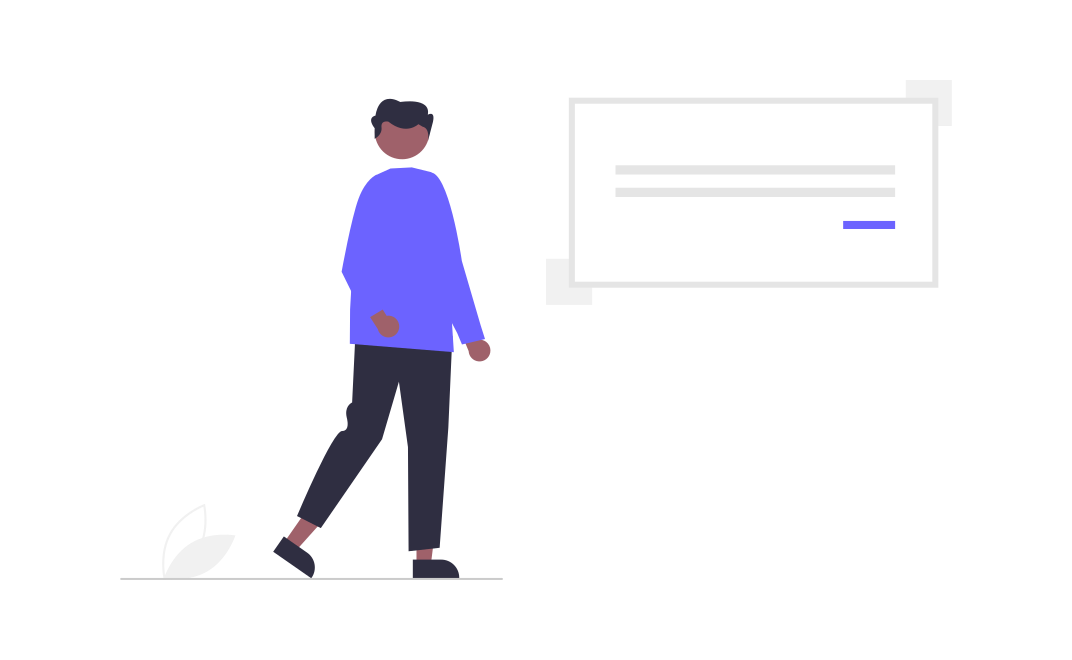
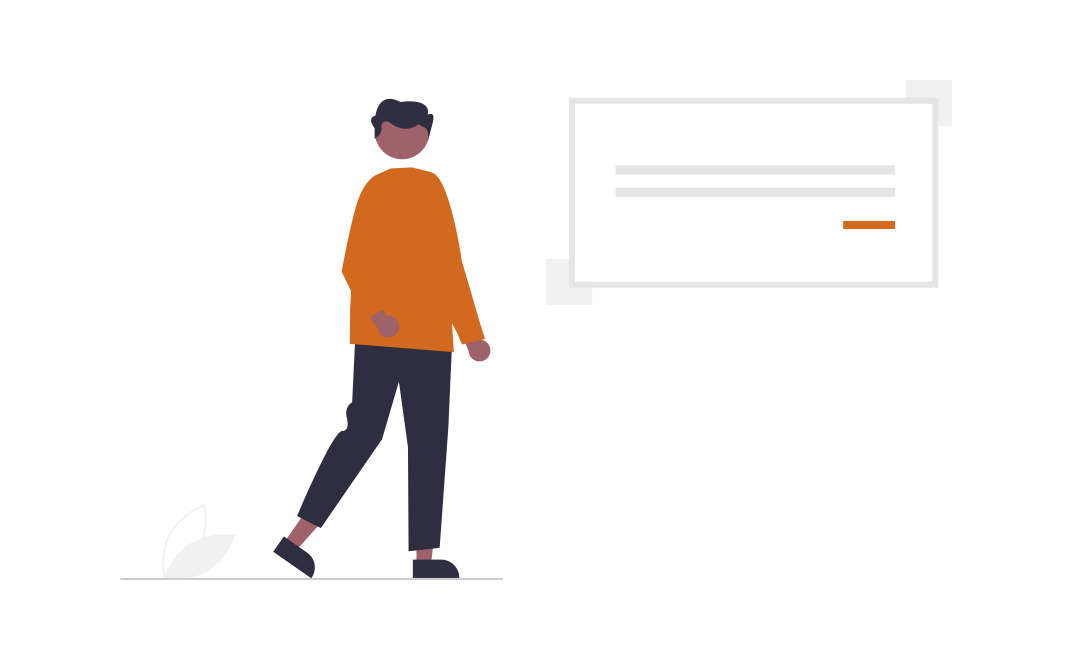
secret hider note making completed

Changed region(s): [[0.3078, 0.2424, 0.4618, 0.5455], [0.7696, 0.3333, 0.8312, 0.3636]]

diff --git a/SecretHider/public/CSS/style.css b/SecretHider/public/CSS/style.css
@@ -14,18 +14,18 @@ body {
 }
 
 .nav-link {
-    color: #6C63FF;
+    color: chocolate;
 }
 
 .active {
     color: white;
-    background: #6C63FF;
+    background: chocolate;
 }
 
 .active:hover {
     background-color: white;
-    color: #6C63FF;
-    border: 1px solid #6C63FF;
+    color: chocolate;
+        border: 1px solid chocolate;
 }
 
 .nav-link {
@@ -34,7 +34,7 @@ body {
 
 .nav-link:hover {
     color: white;
-    background-color: #6c63ff;
+    background-color: chocolate;
 }
 
 .introduction button a {
@@ -65,7 +65,7 @@ main {
 }
 
 .introduction h1 {
-    color: #6C63FF;
+    color: chocolate;
     font-size: 3.5em;
     padding: 1rem 0px;
     font-family: 'Montserrat', sans-serif;
@@ -83,13 +83,14 @@ main {
 }
 
 .btn {
-    background-color: #6C63FF;
+    background-color: chocolate;
+        border-color: chocolate;
 }
 
 .btn:hover {
-    color: #6C63FF;
-    border-color: #6C63FF;
-    background-color: #6C63FF;
+    color: white;
+        border-color: chocolate;
+        background-color: chocolate;
     opacity: 0.8;
 }
 
@@ -99,6 +100,9 @@ main {
 .register-main {
     padding: 3rem 2rem;
 }
+.register h1 {
+    margin-bottom: 8px;
+}
 
 .register p {
     color: rgba(0, 0, 0, 0.5);
@@ -106,6 +110,7 @@ main {
 
 .register p a {
     text-decoration: none;
+    color: chocolate;
 }
 
 .btn-social {
@@ -144,6 +149,102 @@ main {
 
 .btn-register:hover,
 .btn-register:active {
-    background-color: #6C63FF;
+    background-color: chocolate;
     opacity: 0.9;
+}
+.search-form input {
+    outline: none;
+    border: none;
+}
+
+.logo-container h1 {
+    color: chocolate;
+    font-family: 'Montserrat', sans-serif;
+    font-weight: 300;
+    font-size: 2rem;
+}
+
+.fa-key {
+    color: chocolate;
+}
+
+.secret-page-navbar {
+    padding: 1rem;
+}
+
+main.secret-notes {
+    width: 100%;
+    max-width: 600px;
+    margin: 0 auto;
+}
+
+.secret-notes form {
+    width: 100%;
+}
+
+.secret-notes form input,
+.secret-notes form textarea {
+    border: none;
+}
+
+.notepad {
+    padding: 30px;
+    border: 2px solid black;
+    border-radius: 10%;
+}
+
+.imported {
+    position: relative;
+    width: 480px;
+    margin: 10px auto 10px auto;
+    background: #fff;
+    padding: 15px;
+    border-radius: 7px;
+    box-shadow: 0 1px 5px rgb(138, 137, 137);
+}
+
+.imported input,
+.imported textarea {
+    width: 100%;
+    border: none;
+    padding: 4px;
+    outline: none;
+    font-size: 1.2em;
+    font-family: inherit;
+    resize: none;
+}
+
+.imported button {
+    position: absolute;
+    right: 18px;
+    bottom: -18px;
+    background: chocolate;
+    color: #fff;
+    border: none;
+    border-radius: 50%;
+    width: 36px;
+    height: 36px;
+    box-shadow: 0 1px 3px rgba(0, 0, 0, 0.3);
+    cursor: pointer;
+    outline: none;
+}
+.secret-note-container{
+    display: grid;
+    grid-template-columns: repeat(auto-fit,minmax(350px,1fr));
+}
+.secret-note{
+    background-color: white;
+    box-shadow: 0 1px 5px rgb(138, 137, 137);
+    border-radius: 10px;
+    padding: 1rem;
+    margin: 20px;
+}
+.secret-note h1{
+    font-size: 1.5em;
+    font-weight: 400;
+    color: chocolate;
+}
+.secret-note p{
+    font-size: 1em;
+    font-weight: 300;
 }

diff --git a/SecretHider/app.js b/SecretHider/app.js
@@ -26,7 +26,10 @@ app.use(express.static("public"));
 app.set("view engine", 'ejs');
 app.listen(3000, () => {
     console.log("Server started at port 3000");
-})
+});
+
+const id=[];
+const userId = id[0];
 
 
 
@@ -48,7 +51,7 @@ const userSchema = new mongoose.Schema({
     password: String,
     googleId: String,
     facebookId: String,
-    secret: String
+    secrets: []
 })
 userSchema.plugin(passportLocalMongoose, { usernameField: "email" });
 userSchema.plugin(findOrCreate);
@@ -77,6 +80,7 @@ passport.use(new GoogleStrategy({
     },
     function(accessToken, refreshToken, profile, cb) {
         User.findOrCreate({ googleId: profile.id }, function(err, user) {
+            id.push(user._id);
             return cb(err, user);
         });
     }
@@ -88,8 +92,9 @@ passport.use(new FacebookStrategy({
         profileFields: ['id', 'displayName', 'photos', 'email']
     },
     function(accessToken, refreshToken, profile, cb) {
-        console.log(profile);
+        // console.log(profile);
         User.findOrCreate({ facebookId: profile.id }, function(err, user) {
+            id.push(user._id);
             return cb(err, user);
         });
     }
@@ -147,7 +152,14 @@ app.get("/logout", (req, res) => {
 
 app.get("/secret", function(req, res) {
     if (req.isAuthenticated()) {
-        res.render("secret");
+        User.findOne({_id:id[0]},(err,Secrets)=>{
+            if(!err){
+                console.log(Secrets.secrets);
+                res.render("secret",{SecretsToRender:Secrets.secrets});
+            }else{
+                console.log(err);
+            }
+        })
     } else {
         res.redirect("/login");
     }
@@ -189,4 +201,13 @@ app.post("/login", (req, res) => {
 
         }
     })
+})
+
+// posting secrets
+app.post("/post-secret",(req,res)=>{
+    console.log(req.body);
+    if(req.body.title !== "" || req.body.content !== ""){
+    User.updateOne({_id:id[0]},{$push:{secrets:{title:req.body.title,content:req.body.content}}},(err,user)=>{});
+    res.redirect("/secret");
+}
 })
